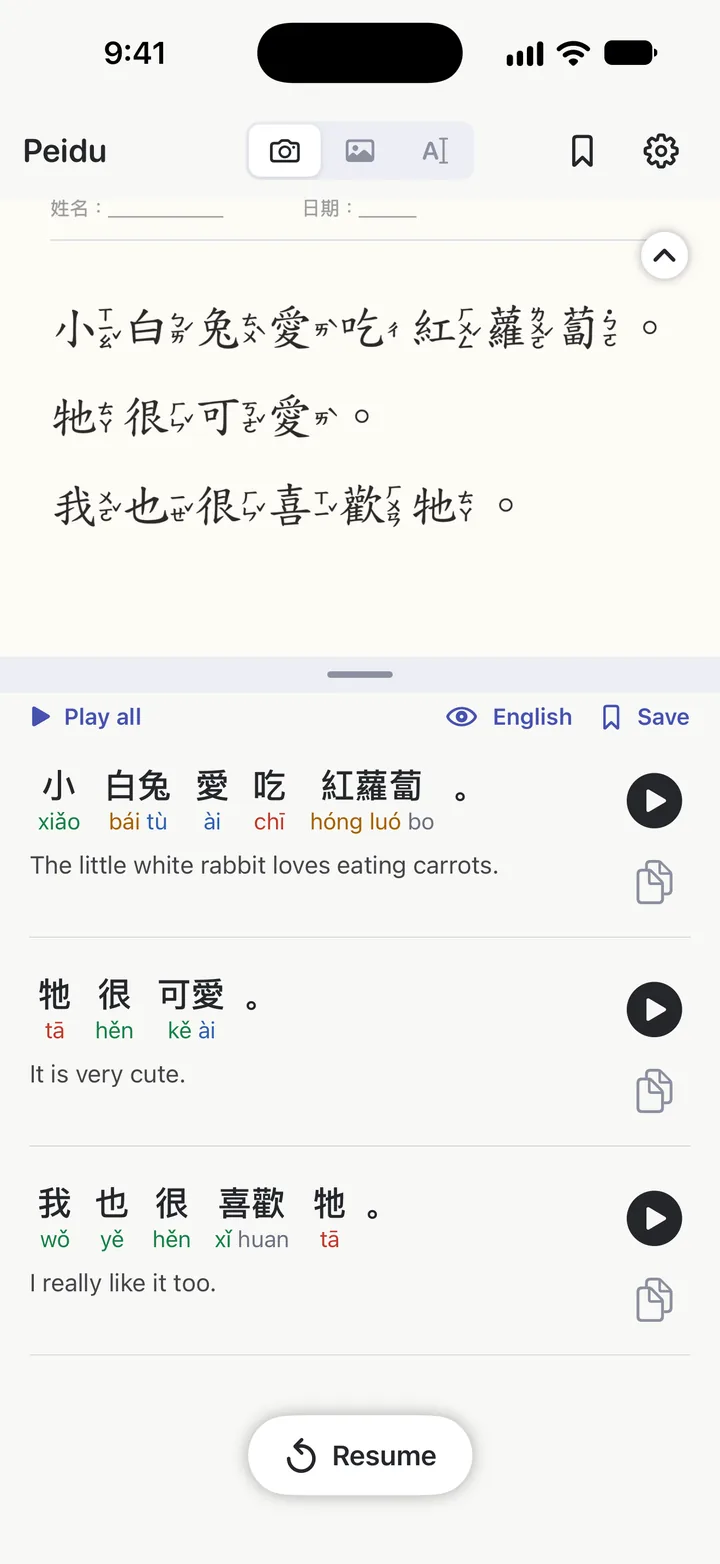
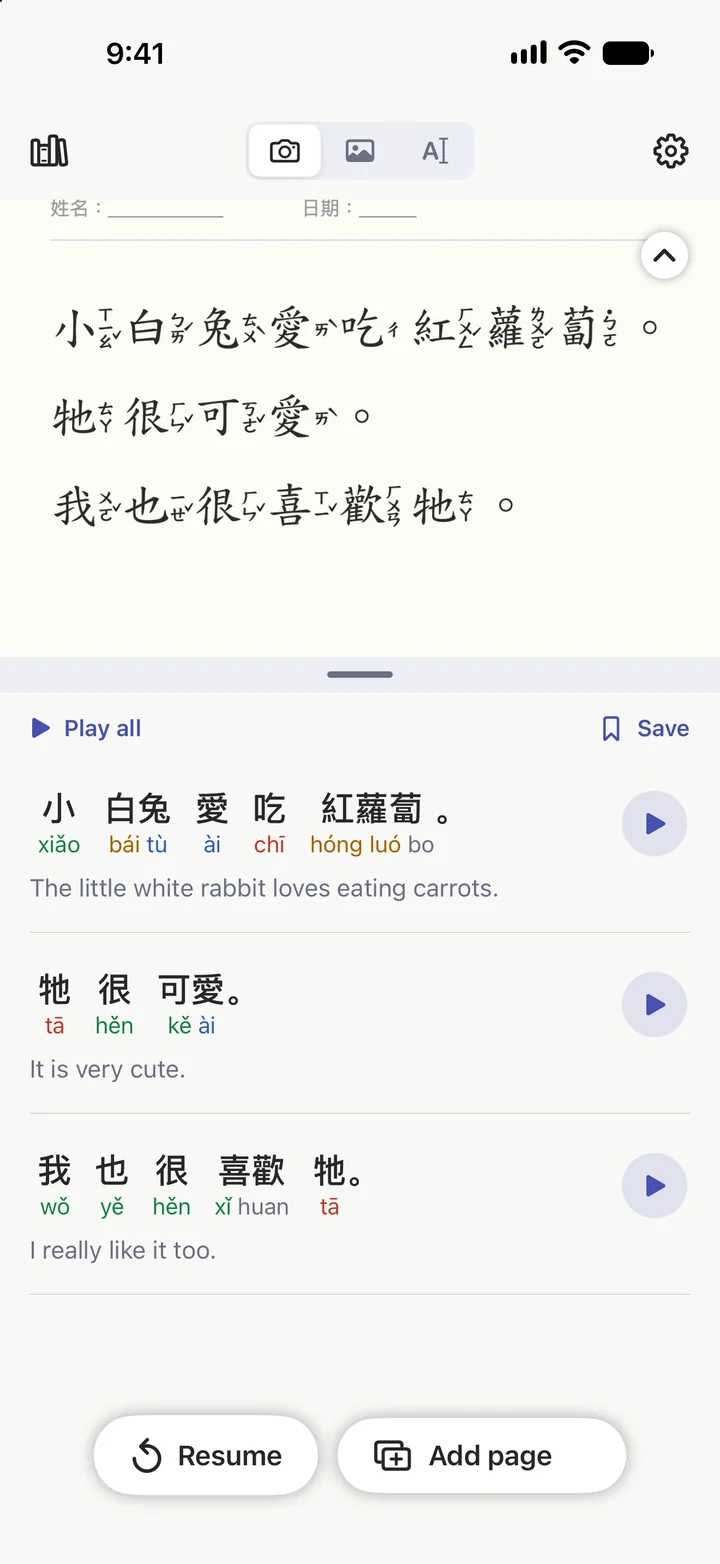
Calmer app design and Reader mode: new screenshots, Help answers, home section
Screenshots retaken from the app as of 2026-11-25 (peidu-ios #76-#78).
Help: grey characters instead of dotted underlines, 'Some lines may be
missing.', Closer Look beside Resume and on Photo, copy by press and hold,
Settings > Speech > More voices, Reader mode. Home: Reader mode section and
in the Premium list.

diff --git a/support.html b/support.html
@@ -4,7 +4,7 @@
 <meta charset="utf-8">
 <meta name="viewport" content="width=device-width, initial-scale=1">
 <title>Peidu Help</title>
-<meta name="description" content="Short answers on reading, listening, Closer Look, fixing a character, Premium, and getting in touch.">
+<meta name="description" content="Short answers on reading, listening, Closer Look, Reader mode, fixing a character, Premium, and getting in touch.">
 <meta name="theme-color" content="#4651B0" media="(prefers-color-scheme: light)">
 <meta name="theme-color" content="#121216" media="(prefers-color-scheme: dark)">
 <link rel="icon" href="assets/img/favicon.png" type="image/png">
@@ -28,25 +28,31 @@
     <h1>Help</h1>
 
     <h2 id="read">How do I read something?</h2>
-    <p>Point the camera, tap the photo icon for a picture or screenshot, or tap the text icon to paste. Tap the shutter to freeze a page; hold it for <a href="#closer-look">Closer Look</a>.</p>
+    <p>Pick Camera, Photo, or Text at the top. On the camera, tap the shutter to freeze a page, or hold it for <a href="#closer-look">Closer Look</a>. On Text, tap <kbd>Paste</kbd>, then <kbd>Read</kbd>.</p>
 
     <h2 id="hear">How do I hear it?</h2>
-    <p>Tap a word, tap ▶ beside a sentence, or tap <kbd>Play all</kbd>. Voice and speed are in Settings. Pinyin is coloured by tone: <span class="py"><span class="t1">mā</span> <span class="t2">má</span> <span class="t3">mǎ</span> <span class="t4">mà</span> <span class="t0">ma</span></span>.</p>
+    <p>Tap a word, tap ▶ beside a sentence, or tap <kbd>Play all</kbd>. Voice and speed are in Settings → Speech. Pinyin is coloured by tone: <span class="py"><span class="t1">mā</span> <span class="t2">má</span> <span class="t3">mǎ</span> <span class="t4">mà</span> <span class="t0">ma</span></span>.</p>
+
+    <h2 id="copy">How do I copy a sentence?</h2>
+    <p>Press and hold it, then choose Chinese, pinyin, English, or all three.</p>
 
     <h2 id="closer-look">What is Closer Look?</h2>
-    <p>A stronger scan for small print, dense pages, and Zhuyin books. Hold the shutter about one second. Dotted underlines mark characters to check against the page.</p>
+    <p>A stronger scan for small print, dense pages, and Zhuyin books. On the camera, hold the shutter about one second. On Photo, tap the magnifier beside <kbd>Choose Photos</kbd>.</p>
 
-    <h2 id="marks">What do the □ and the dotted underline mean?</h2>
-    <p>Both mean "check this against the page". A dotted underline marks a character Peidu isn't sure of. A □ marks a spot where it thinks a character is missing, which can happen on pages with Zhuyin.</p>
+    <h2 id="marks">What do grey characters and □ mean?</h2>
+    <p>Both mean "check this against the page". A grey character is one Peidu isn't sure of. A □ marks a spot where it thinks a character is missing, which can happen on pages with Zhuyin. Tap the word to <a href="#fix">fix it</a>.</p>
 
-    <h2 id="unclear">It says "Some lines weren't clear".</h2>
-    <p>The quick scan couldn't read part of the page, often because of Zhuyin or small print, so the words shown may be incomplete or wrong. Tap <kbd>Read it with Closer Look</kbd> to read the same page again with the stronger scan.</p>
+    <h2 id="unclear">It says "Some lines may be missing."</h2>
+    <p>The quick scan couldn't read all of the page, often because of Zhuyin or small print. Tap <kbd>Closer Look</kbd> beside <kbd>Resume</kbd> (on Photo, the magnifier) to read it again with the stronger scan.</p>
 
     <h2 id="fix">Peidu misread a character.</h2>
-    <p>Tap the word, then <kbd>Edit</kbd>. Pick a suggestion, type how it sounds (<em>jian</em>), or delete it.</p>
+    <p>Tap the word, then <kbd>Edit</kbd> (or <kbd>Check</kbd> on a grey one). Pick a suggestion, type how it sounds (<em>jian</em>), or delete it.</p>
+
+    <h2 id="reader">Can it read a whole book?</h2>
+    <p>Yes, with Reader mode. On Photo, choose up to 20 pages at once, in order, or tap <kbd>Add page</kbd> after each camera capture. Peidu reads ahead while you read: swipe to turn the page, and <kbd>Save book</kbd> keeps every page.</p>
 
     <h2 id="premium">What does Premium include?</h2>
-    <p>Unlimited Closer Look, Simplified ⇄ Traditional, and unlimited saves with export. One-time purchase, no subscription. Reading, pinyin, English, and speech stay free. You get 10 Closer Looks and 10 saves to try first.</p>
+    <p>Unlimited Closer Look, Reader mode, Simplified ⇄ Traditional, and unlimited saves with export. One-time purchase, no subscription. Reading, pinyin, English, and speech stay free. To try first, you get 10 Closer Looks, 10 saves, and one book of up to 3 pages (each page uses a free Closer Look).</p>
 
     <h2 id="restore">New phone, no Premium?</h2>
     <p>Settings → <kbd>Restore Purchases</kbd>, signed in to the same Apple Account.</p>
@@ -55,7 +61,7 @@
     <p>Yes. The only exception is English translation: the first time, iOS downloads its language pack.</p>
 
     <h2 id="voice">No Chinese voice, or it sounds robotic?</h2>
-    <p>Peidu uses the Mandarin voices on your iPhone. Settings in Peidu shows how to download a better one.</p>
+    <p>Peidu uses the Mandarin voices on your iPhone. Settings → Speech → <kbd>More voices</kbd> shows how to download a better one.</p>
 
     <h2 id="devices">Which iPhones?</h2>
     <p>Any iPhone on iOS 26 or later.</p>

diff --git a/index.html b/index.html
@@ -137,7 +137,22 @@
           </ul>
         </div>
         <div class="feature-media">
-          <div class="phone small"><img src="assets/img/saved-detail.webp" alt="A saved reading with three sentences, each with pinyin, English, and play and copy buttons" width="720" height="1564" loading="lazy"></div>
+          <div class="phone small"><img src="assets/img/saved-detail.webp" alt="A saved reading with three sentences, each with pinyin, English, and a play button" width="720" height="1564" loading="lazy"></div>
+        </div>
+      </article>
+
+      <article class="feature flip">
+        <div class="feature-text">
+          <p class="eyebrow premium">Premium · one book free</p>
+          <h2>A whole book, page by page.</h2>
+          <p>Pick up to 20 photos, or add pages from the camera. Peidu reads ahead while you read.</p>
+          <ul>
+            <li>Swipe to turn the page</li>
+            <li>Save book keeps every page</li>
+          </ul>
+        </div>
+        <div class="feature-media">
+          <div class="phone small"><img src="assets/img/reader.webp" alt="Reader mode on page 1 of a five-page storybook: the page photo, a strip of small pages with the next one being read, and page 1's pinyin and English" width="720" height="1564" loading="lazy"></div>
         </div>
       </article>
 
@@ -160,7 +175,7 @@
           <ul>
             <li>Camera, photo, and pasted text</li>
             <li>Pinyin, English, and speech</li>
-            <li>10 Closer Looks and 10 saves to try</li>
+            <li>10 Closer Looks, 10 saves, and one book to try</li>
           </ul>
         </div>
         <div class="plan card featured">
@@ -168,6 +183,7 @@
           <p class="price">One-time unlock. No&nbsp;subscription.</p>
           <ul>
             <li>Closer Look</li>
+            <li>Reader mode for whole books</li>
             <li>Simplified ⇄ Traditional</li>
             <li>Unlimited saves and export</li>
           </ul>

diff --git a/CLAUDE.md b/CLAUDE.md
@@ -40,8 +40,8 @@ It stays public and separate from the private app repo `peiduapp/peidu-ios`.
   the launch block out of the comment, and replace `APP_STORE_URL` with the real link.
 - **No price on the site.** Premium is described as a one-time unlock with no subscription. The
   App Store shows the price, so a price change never makes the site wrong. Do not add a number.
-- **Free allowances.** 10 free Closer Looks and 10 free saves are mentioned on the home page and
-  the Help page.
+- **Free allowances.** 10 free Closer Looks, 10 free saves, and one free Reader mode book of up
+  to 3 pages are mentioned on the home page and the Help page.
 
 ## Writing
 
